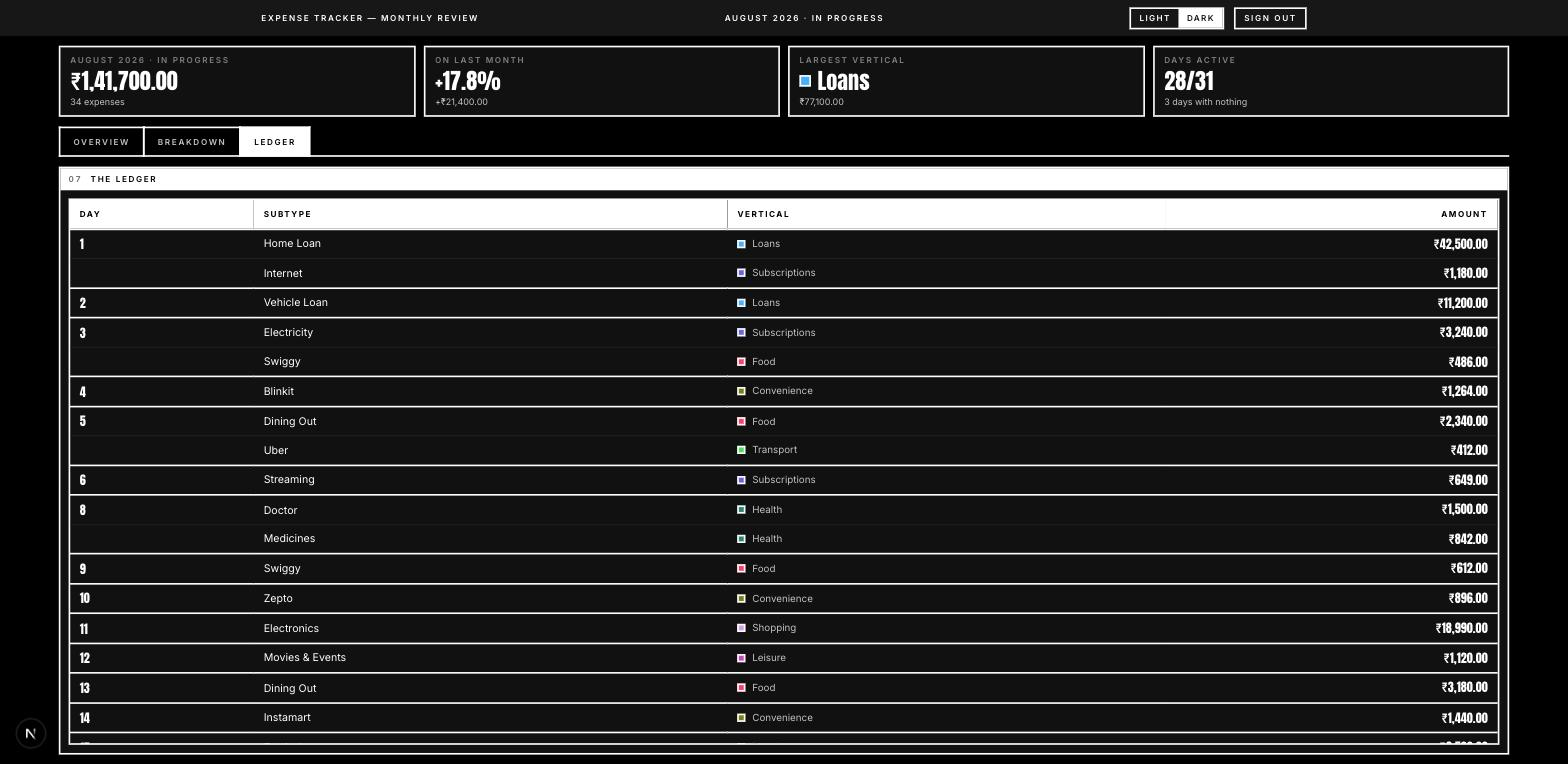
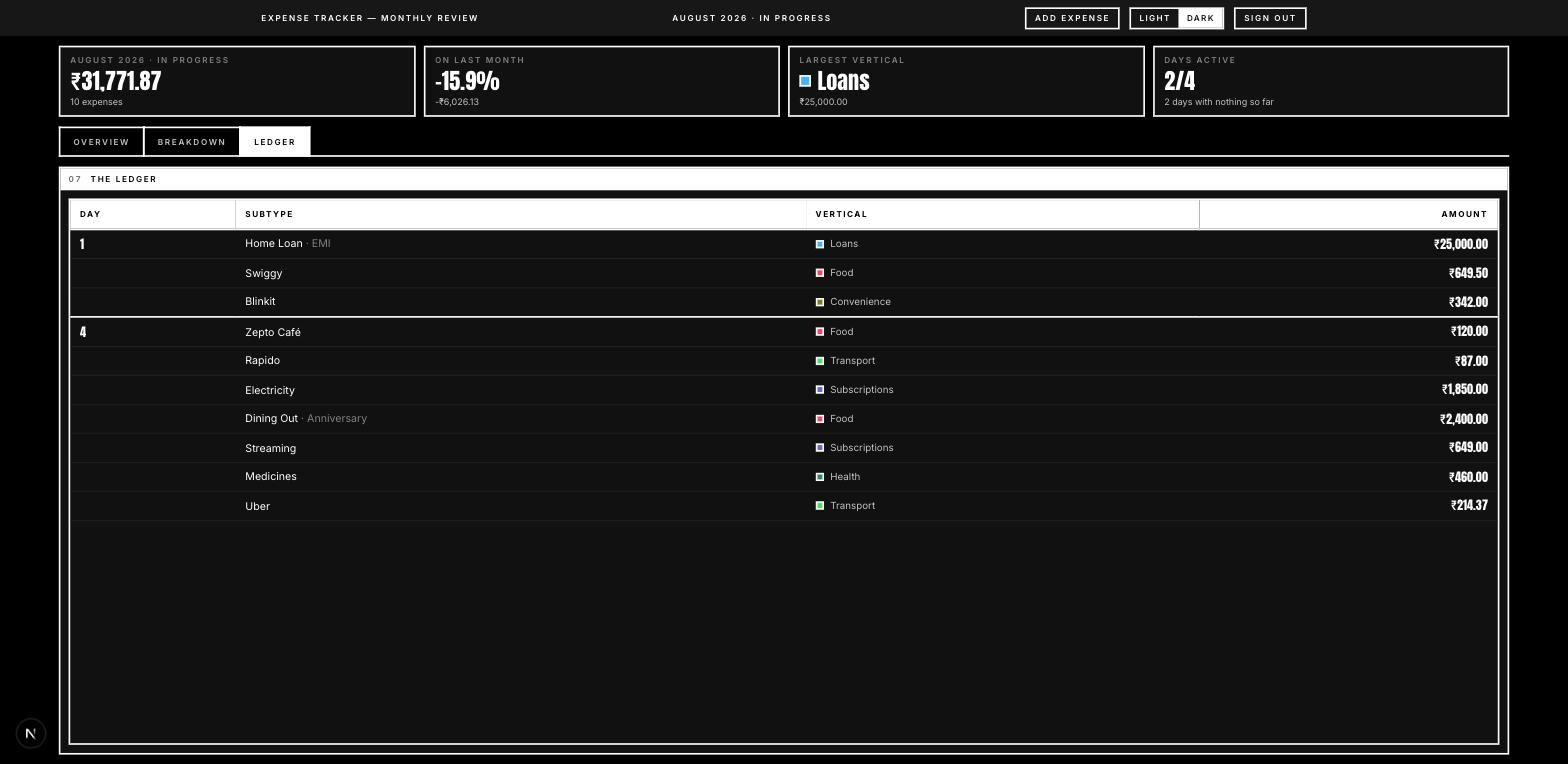
Re-shoot the reference screenshots against the wired board
Six board references re-shot — the masthead now carries the Add expense
control in every frame — plus two new rows for the dialog itself, open
over each theme, which pin the native select and date chrome under each
color-scheme and the backdrop's polarity.

Sample data went in through the app's own add flow plus a scripted
prior month, and came back out by id afterwards; the database is empty
again. The shots are deliberately mid-month: days that have not
happened render plain, and the reference should show that rule.

diff --git a/docs/design-system.md b/docs/design-system.md
@@ -33,24 +33,31 @@ being reachable without scrolling. See §7 for what the layout has to guarantee.
 
 One view per row, each shot at the full board so the tabs, the KPI strip and the
 masthead are all in frame. There is no separate masthead shot any more — the
-band is in every one of these.
+band is in every one of these. The fourth row is the add-expense dialog open
+over the board, which is what pins the two things CSS cannot: the native
+select and date chrome under each `color-scheme`, and the backdrop's polarity.
 
 | Light | Dark |
 |---|---|
 | ![Light overview](screenshots/light-overview.jpg) | ![Dark overview](screenshots/dark-overview.jpg) |
 | ![Light breakdown](screenshots/light-breakdown.jpg) | ![Dark breakdown](screenshots/dark-breakdown.jpg) |
 | ![Light ledger](screenshots/light-ledger.jpg) | ![Dark ledger](screenshots/dark-ledger.jpg) |
+| ![Light add dialog](screenshots/light-add.jpg) | ![Dark add dialog](screenshots/dark-add.jpg) |
 
-> Captured against temporary sample data, then reverted, and kept as the
-> **visual reference for what a populated board should look like**. The
-> database ships empty, so a fresh install shows the same modules in their
-> empty states — which is the one thing these cannot show you.
+> Captured against temporary sample data written through the app's own add
+> flow plus a scripted prior month, then deleted, and kept as the **visual
+> reference for what a populated board should look like**. The database ships
+> empty, so a fresh install shows the same modules in their empty states —
+> which is the one thing these cannot show you.
 >
-> The sample month is chosen to exercise the cases that have broken before, not
-> to look tidy: a home loan large enough to dominate the treemap, subtypes small
-> enough to fall below the 2% tier where a cell carries a name and no amount,
-> two days with nothing on them so the calendar's struck-out state appears, and
-> a prior month that moves some verticals up and others down.
+> The sample month is chosen to exercise the cases that have broken before,
+> not to look tidy: a home loan large enough to dominate the treemap, subtypes
+> small enough to fall below the 2% tier where a cell carries a name and no
+> amount, struck-out nothing-moved days on the calendar, and a prior month
+> that moves some verticals up, others down, and holds two exactly flat. The
+> shots are taken mid-month on purpose: days that have not happened yet render
+> plain — not struck out — and the reference should show that rule, since the
+> board must never claim tomorrow spent nothing.
 >
 > Re-shoot them whenever the palette, the taxonomy or the layout changes. Any
 > screenshot showing seven slots, the words "Rent & home", or a full-bleed
